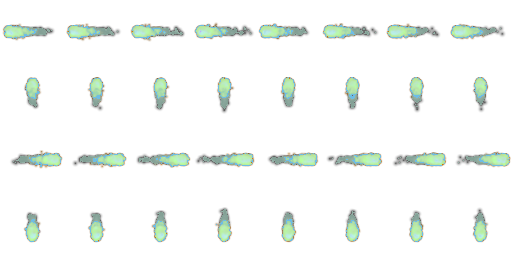
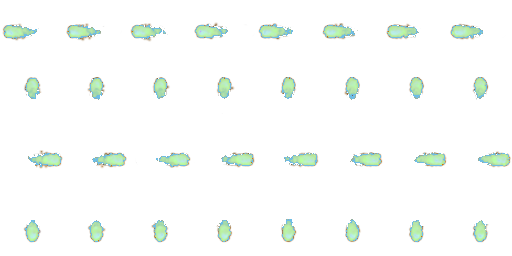
Iceblock implemented

diff --git a/src/models/Player.java b/src/models/Player.java
@@ -116,9 +116,9 @@ public class Player extends Character {
 	
 	private long speedBoostTimeStamp; //Time at which speed potion was drank 
 	
-	public Player() throws SlickException {
+	public Player(float relativeToMapX, float relativeToMapY) throws SlickException {
 
-		super(224, 64, "resources/player_sprites/player_base.png");
+		super(relativeToMapX, relativeToMapY, "resources/player_sprites/player_base.png");
 
 		super.setCollisionBox(new CollisionBox(super.getRelativeToMapX() + 6, super.getRelativeToMapY() + 10, super.getSpriteSize() / 2 - 12, super.getSpriteSize() / 2 - 12));
 		super.setHitBox(new CollisionBox(super.getRelativeToMapX(), super.getRelativeToMapY() - 10, super.getSpriteSize() / 2, super.getSpriteSize() / 2));
@@ -204,7 +204,7 @@ public class Player extends Character {
 					updateHealMagic();
 				}
 				
-				if(equippedSpell != null && (equippedSpell.getName().equals("Icelance") || equippedSpell.getName().equals("Fireball") || equippedSpell.getName().equals("Titanspear"))) {
+				if(equippedSpell != null && (equippedSpell.getName().equals("Icelance") || equippedSpell.getName().equals("Fireball") || equippedSpell.getName().equals("Titanspear") || equippedSpell.getName().equals("Iceblock"))) {
 					updateBulletMagic();
 				}
 					
@@ -1164,9 +1164,16 @@ public class Player extends Character {
 					spriteSheet = new SpriteSheet("resources/fireball.png", 64, 64);
 				} else if(equippedSpell.getName().equals("Titanspear")) {
 					spriteSheet = new SpriteSheet("resources/titanspear.png", 64, 64);
+				} else if(equippedSpell.getName().equals("Iceblock")) {
+					spriteSheet = new SpriteSheet("resources/iceblock.png", 64, 64);
 				}
 				
 				Projectile projectile = new Projectile(super.getRelativeToMapX() + 16, super.getRelativeToMapY() - 32, new Animation(spriteSheet, 0, 1, 3, 1, true, 100, true), 0, damageToDeal, spellVelocity);
+				
+				if(equippedSpell.getName().equals("Iceblock")) {
+					projectile.setBlocking(true);
+				}
+				
 				spellCreated = true;
 				Game.getProjectileManager().addProjectile(projectile);
 
@@ -1185,9 +1192,16 @@ public class Player extends Character {
 					spriteSheet = new SpriteSheet("resources/fireball.png", 64, 64);
 				} else if(equippedSpell.getName().equals("Titanspear")) {
 					spriteSheet = new SpriteSheet("resources/titanspear.png", 64, 64);
+				} else if(equippedSpell.getName().equals("Iceblock")) {
+					spriteSheet = new SpriteSheet("resources/iceblock.png", 64, 64);
 				}
 				
 				Projectile projectile = new Projectile(super.getRelativeToMapX() + 16, super.getRelativeToMapY() + 32, new Animation(spriteSheet, 0, 3, 3, 3, true, 100, true), 1, damageToDeal, spellVelocity);
+				
+				if(equippedSpell.getName().equals("Iceblock")) {
+					projectile.setBlocking(true);
+				}
+				
 				spellCreated = true;
 				Game.getProjectileManager().addProjectile(projectile);
 			}
@@ -1205,9 +1219,16 @@ public class Player extends Character {
 					spriteSheet = new SpriteSheet("resources/fireball.png", 64, 64);
 				} else if(equippedSpell.getName().equals("Titanspear")) {
 					spriteSheet = new SpriteSheet("resources/titanspear.png", 64, 64);
+				} else if(equippedSpell.getName().equals("Iceblock")) {
+					spriteSheet = new SpriteSheet("resources/iceblock.png", 64, 64);
 				}
 				
 				Projectile projectile = new Projectile(super.getRelativeToMapX() + 16 - 32, super.getRelativeToMapY(), new Animation(spriteSheet, 0, 0, 3, 0, true, 100, true), 2, damageToDeal, spellVelocity);
+				
+				if(equippedSpell.getName().equals("Iceblock")) {
+					projectile.setBlocking(true);
+				}
+				
 				spellCreated = true;
 				Game.getProjectileManager().addProjectile(projectile);
 			}
@@ -1226,9 +1247,16 @@ public class Player extends Character {
 					spriteSheet = new SpriteSheet("resources/fireball.png", 64, 64);
 				} else if(equippedSpell.getName().equals("Titanspear")) {
 					spriteSheet = new SpriteSheet("resources/titanspear.png", 64, 64);
+				} else if(equippedSpell.getName().equals("Iceblock")) {
+					spriteSheet = new SpriteSheet("resources/iceblock.png", 64, 64);
 				}
 				
 				Projectile projectile = new Projectile(super.getRelativeToMapX() + 16 + 32, super.getRelativeToMapY(), new Animation(spriteSheet, 0, 2, 3, 2, true, 100, true), 3, damageToDeal, spellVelocity);
+				
+				if(equippedSpell.getName().equals("Iceblock")) {
+					projectile.setBlocking(true);
+				}
+				
 				spellCreated = true;
 				Game.getProjectileManager().addProjectile(projectile);
 			}

diff --git a/src/models/Projectile.java b/src/models/Projectile.java
@@ -36,6 +36,8 @@ public class Projectile {
 	
 	private int damage;
 	
+	private boolean isBlocking; //If the projectile should stop the NPC from moving
+	
 	public Projectile(float x, float y, Animation animation, int direction, int damage, int velocity) throws SlickException {
 		
 		this.animation = animation;
@@ -56,7 +58,7 @@ public class Projectile {
 		this.velocity = velocity;
 		
 		collisionBox = new CollisionBox(relativeToMapX + width/4, relativeToMapY + height/4, width/4, height/4);
-				
+		
 	}
 
 	public void update() {
@@ -103,58 +105,10 @@ public class Projectile {
 					if(collisionBox.intersects(npc.getHitBox()) && npc.isAlive() && npc.isHostileToPlayer()) {
 						npc.decreaseHealth(damage);
 						
-						if(direction == 0) {
-						
-							if(Game.getTiledMap().getTileId(npc.getCenterXTile(), npc.getCenterYTile() - 2, Game.getNotWalkableLayerIndex()) == 0) {
-								
-								npc.setRelativeToMapY(npc.getRelativeToMapY() - Main.TILE_SIZE * 2);
-								
-							} else if(Game.getTiledMap().getTileId(npc.getCenterXTile(), npc.getCenterYTile() -  1, Game.getNotWalkableLayerIndex()) == 0) {
-								
-								npc.setRelativeToMapY(npc.getRelativeToMapY() - Main.TILE_SIZE * 1);
-								
-							}
-					
-						} else if(direction == 1) {
-							
-							if(Game.getTiledMap().getTileId(npc.getCenterXTile(), npc.getCenterYTile() + 2, Game.getNotWalkableLayerIndex()) == 0) {
-								
-								npc.setRelativeToMapY(npc.getRelativeToMapY() + Main.TILE_SIZE * 2);
-								
-							} else if(Game.getTiledMap().getTileId(npc.getCenterXTile(), npc.getCenterYTile() + 1, Game.getNotWalkableLayerIndex()) == 0) {
-								
-								npc.setRelativeToMapY(npc.getRelativeToMapY() + Main.TILE_SIZE * 1);
-								
-							}
-							
-						} else if(direction == 2) {
-							
-							if(Game.getTiledMap().getTileId(npc.getCenterXTile() - 2, npc.getCenterYTile(), Game.getNotWalkableLayerIndex()) == 0) {
-								
-								npc.setRelativeToMapX(npc.getRelativeToMapX() - Main.TILE_SIZE * 2);
-								
-							} else if(Game.getTiledMap().getTileId(npc.getCenterXTile() - 1, npc.getCenterYTile(), Game.getNotWalkableLayerIndex()) == 0) {
-								
-								npc.setRelativeToMapX(npc.getRelativeToMapX() - Main.TILE_SIZE * 1);
-								
-							}
-							
-						} else if(direction == 3) {
-							
-							if(Game.getTiledMap().getTileId(npc.getCenterXTile() + 2, npc.getCenterYTile(), Game.getNotWalkableLayerIndex()) == 0) {
-								
-								npc.setRelativeToMapX(npc.getRelativeToMapX() + Main.TILE_SIZE * 2);
-								
-							} else if(Game.getTiledMap().getTileId(npc.getCenterXTile() + 1, npc.getCenterYTile(), Game.getNotWalkableLayerIndex()) == 0) {
-								
-								npc.setRelativeToMapX(npc.getRelativeToMapX() + Main.TILE_SIZE * 1);
-								
-							}
-							
-						} else {
-							
-							throw(new IllegalArgumentException("Direction must be an integer from 0 to 3"));
-							
+						if(isBlocking) {
+							npc.setIceblocked(true);
+							npc.setIceblockedTimestamp(System.currentTimeMillis());
+							npc.getCurrentAnimation().stop();
 						}
 						
 						npc.setGoingToPlayer(true);
@@ -166,6 +120,14 @@ public class Projectile {
 	
 	public void render(Graphics g) {
 		animation.draw(relativeToScreenX, relativeToScreenY);
+	}
+
+	public boolean isBlocking() {
+		return isBlocking;
+	}
+
+	public void setBlocking(boolean isBlocking) {
+		this.isBlocking = isBlocking;
 	}
 	
 }

diff --git a/src/models/NPC.java b/src/models/NPC.java
@@ -5,9 +5,11 @@ import java.util.Collections;
 import java.util.List;
 import java.util.Random;
 
+import org.newdawn.slick.Animation;
 import org.newdawn.slick.Color;
 import org.newdawn.slick.Graphics;
 import org.newdawn.slick.SlickException;
+import org.newdawn.slick.SpriteSheet;
 import org.newdawn.slick.geom.Circle;
 import org.newdawn.slick.tiled.TiledMap;
 
@@ -65,6 +67,11 @@ public class NPC extends Character {
 	private double critChance;
 	
 	private ItemType equippedMelee;
+	
+	private boolean iceblocked; //If NPC is blocked by iceblock
+	private long iceblockedTimestamp; //Time when player was iceblocked
+	
+	private Animation iceblockAnimation;
 
 	public NPC(float relativeToMapX, float relativeToMapY, int currentHealth, int maxHealth, String spriteSheetPath, boolean hostileToPlayer, Item itemDrop, ArrayList<Dialogue> startingDialogues, int experienceForPlayer, int damageOutput, double critChance) throws SlickException {
 
@@ -110,6 +117,8 @@ public class NPC extends Character {
 		this.damageOutput = damageOutput;
 		this.critChance = critChance;
 		
+		iceblockAnimation = new Animation(new SpriteSheet("resources/iceblockSprite.png", 64, 64), 0, 0, 0, 0, true, 100, true);
+		
 	}
 
 	public void update() throws SlickException {
@@ -131,7 +140,7 @@ public class NPC extends Character {
 		getHitBox().setX(getRelativeToMapX());
 		getHitBox().setY(getRelativeToMapY() - 10);
 		
-		if(isAlive() && hostileToPlayer) {
+		if(isAlive() && hostileToPlayer && !iceblocked) {
 			goToPlayer();
 			attackPlayer();
 		}
@@ -152,6 +161,8 @@ public class NPC extends Character {
 			equippedMelee.getAttackRightCollisionBox().setY(getRelativeToMapY() - 16);
 			
 		}
+		
+		checkIfIceblockIsOver();
 	
 	}
 	
@@ -173,6 +184,10 @@ public class NPC extends Character {
 		
 		if(super.isDrawBlood()) {
 			super.drawBlood(screenRelativeX, screenRelativeY);
+		}
+		
+		if(iceblocked) {
+			iceblockAnimation.draw(screenRelativeX, screenRelativeY);
 		}
 					
 	}
@@ -643,6 +658,15 @@ public class NPC extends Character {
         return path;
                		
 	}
+	
+	private void checkIfIceblockIsOver() {
+
+		if(System.currentTimeMillis() - iceblockedTimestamp > 10000) {
+			iceblocked = false;
+			getCurrentAnimation().start();
+		}
+		
+	}
 		
 	public boolean isUpCollision(float distance) {
 		
@@ -838,6 +862,20 @@ public class NPC extends Character {
 		this.equippedMelee = equippedMelee;
 	}
 
+	public boolean isIceblocked() {
+		return iceblocked;
+	}
 
+	public void setIceblocked(boolean iceblocked) {
+		this.iceblocked = iceblocked;
+	}
+
+	public long getIceblockedTimestamp() {
+		return iceblockedTimestamp;
+	}
+
+	public void setIceblockedTimestamp(long iceblockedTimestamp) {
+		this.iceblockedTimestamp = iceblockedTimestamp;
+	}
 	
 }

diff --git a/src/manager/CharacterManager.java b/src/manager/CharacterManager.java
@@ -27,7 +27,7 @@ public class CharacterManager {
 	
 	public CharacterManager() throws SlickException {
 		
-		player = new Player();
+		player = new Player(480, 416);
 		
 		Item stick = new Item(0, 0, itemTypeManager.stick);
 		Item shirt = new Item(0, 0, itemTypeManager.shirt);
@@ -55,7 +55,7 @@ public class CharacterManager {
 		player.setCurrentFeetAnimation(boots.getItemType().getLookDownAnimation());
 
 			
-		ogus = new NPC(256, 128, 50000, 50000, "resources/OrcSpriteSheet.png", false, null, DialogueManager.ogusDialogues, 300, 10, 0.1);
+		ogus = new NPC(256, 128, 50000, 50000, "resources/OrcSpriteSheet.png", true, null, DialogueManager.ogusDialogues, 300, 10, 0.1);
 		ogus.addItem(new Item(0, 0, itemTypeManager.dagger));
 		ogus.addItem(new Item(0, 0, itemTypeManager.apple));
 		ogus.addItem(new Item(0, 0, itemTypeManager.apple));
